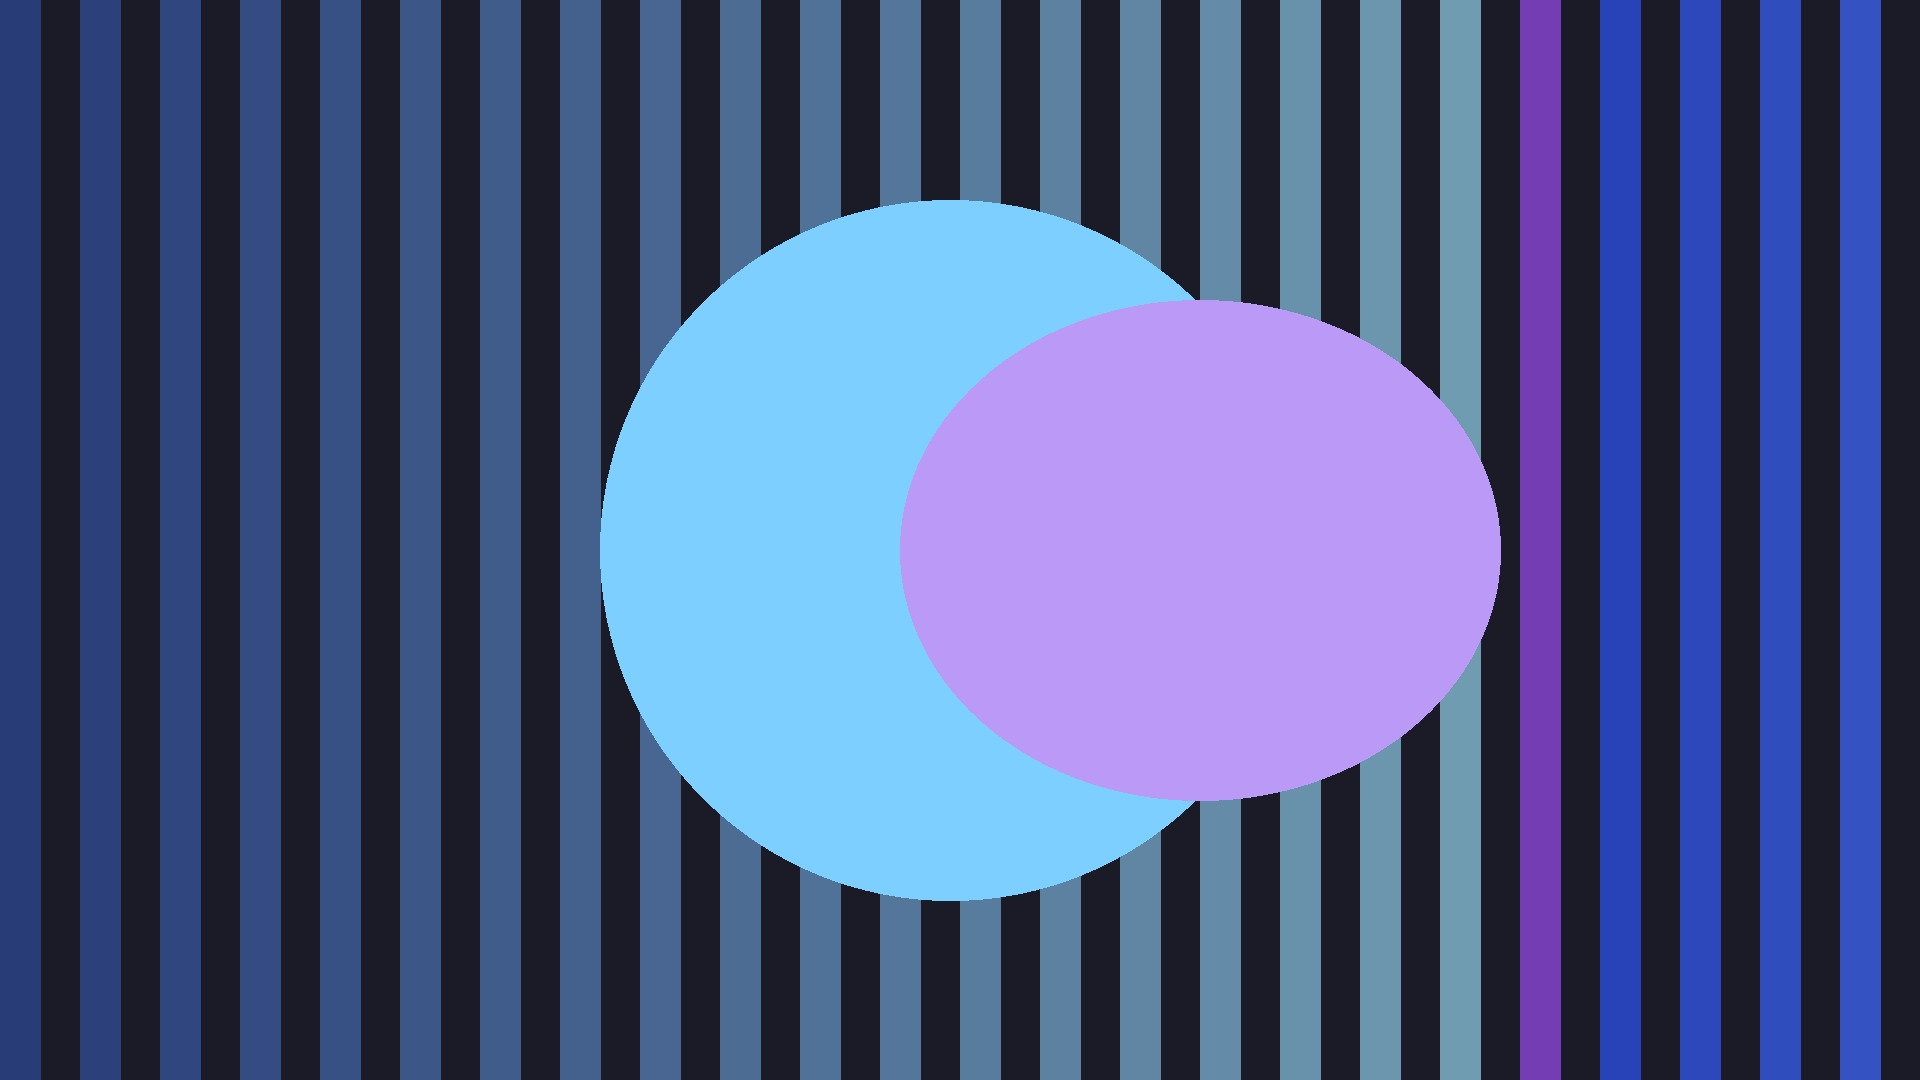
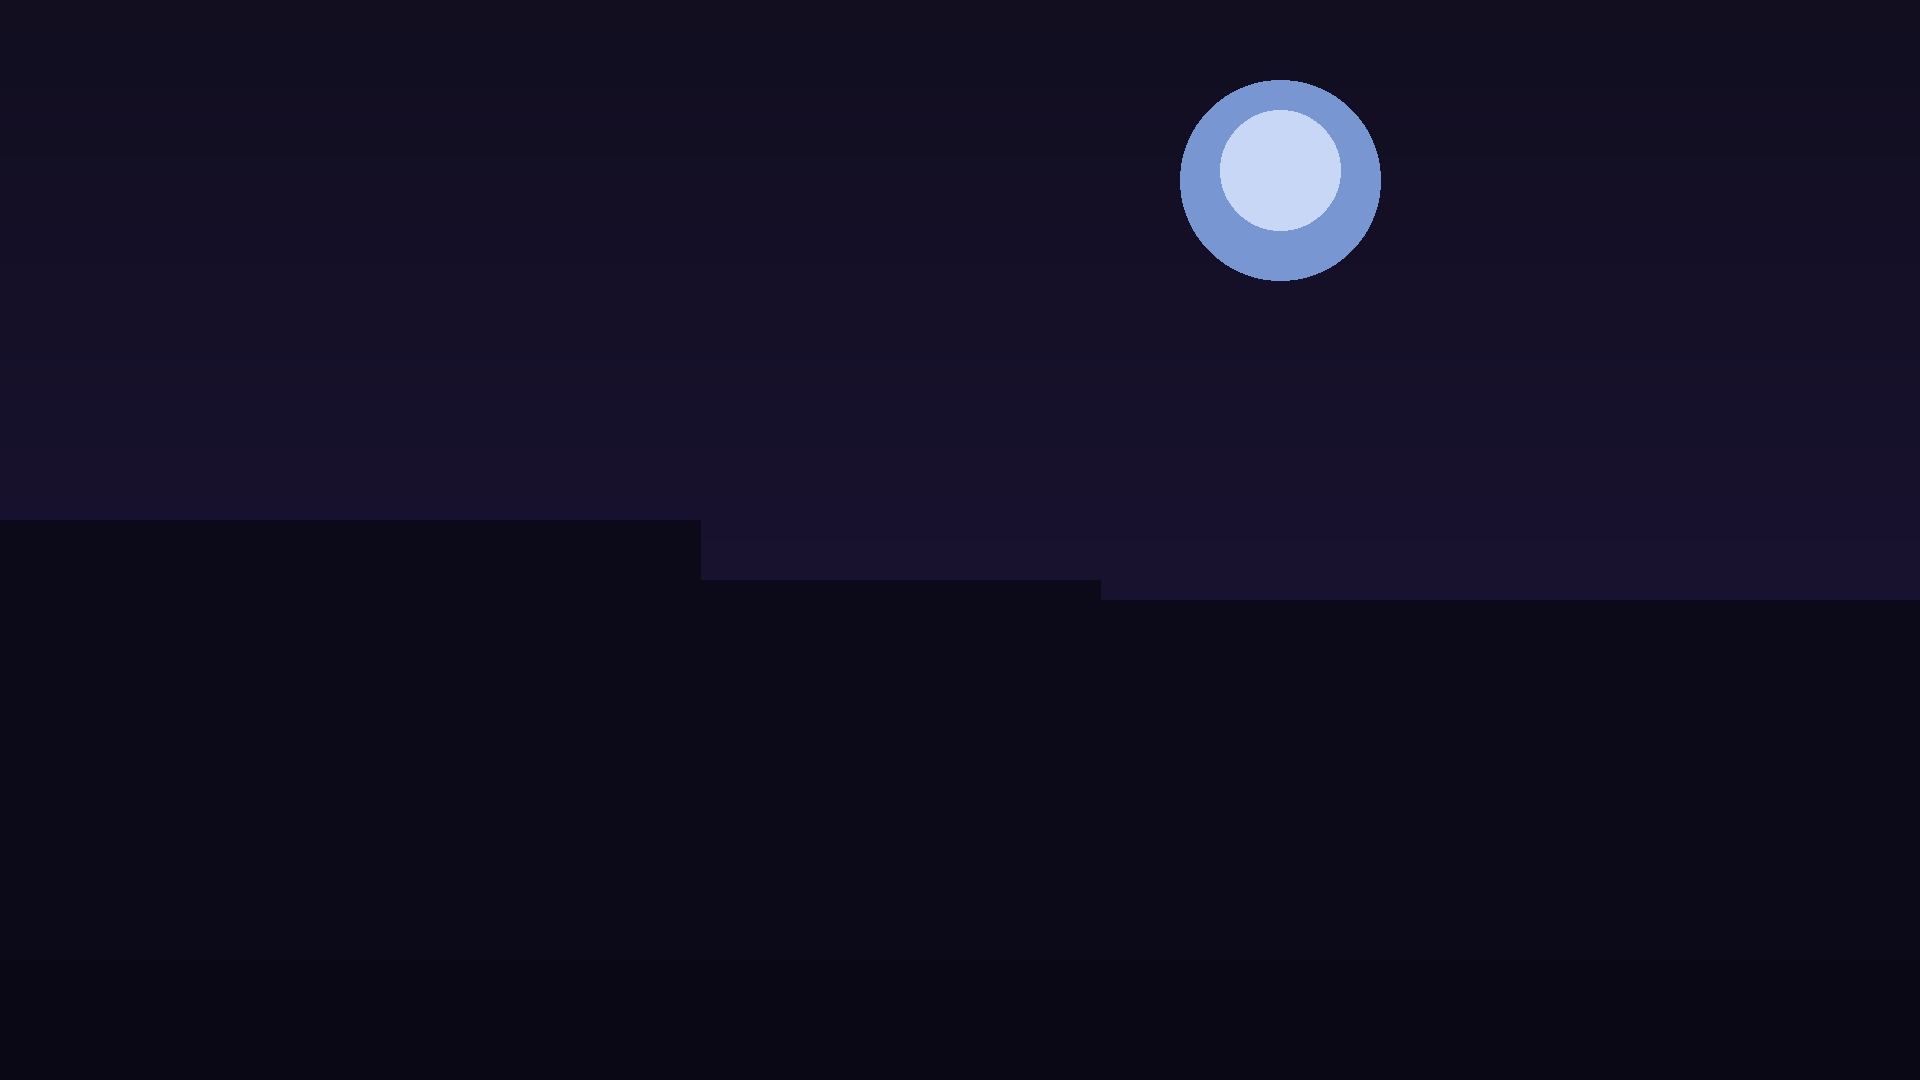
fix: improve theme readability, wallpaper, and boot animations

diff --git a/static/style.css b/static/style.css
@@ -12,12 +12,12 @@
   --font-display: "Press Start 2P", monospace;
   --font-body: "JetBrains Mono", monospace;
   --scanline-opacity: 0.03;
-  --module-bg: color-mix(in srgb, var(--color-base) 8%, transparent);
+  --module-bg: color-mix(in srgb, var(--color-base) 12%, transparent);
   --module-bg-max: color-mix(in srgb, var(--color-base) 12%, transparent);
   --vignette: radial-gradient(
     ellipse at center,
-    transparent 50%,
-    color-mix(in srgb, var(--color-base) 35%, transparent) 100%
+    color-mix(in srgb, var(--color-base) 20%, transparent) 0%,
+    color-mix(in srgb, var(--color-base) 55%, transparent) 100%
   );
 }
 
@@ -49,10 +49,10 @@ body {
   inset: 0;
   pointer-events: none;
   background-image:
-    linear-gradient(color-mix(in srgb, var(--color-accent) 5%, transparent) 1px, transparent 1px),
-    linear-gradient(90deg, color-mix(in srgb, var(--color-accent) 5%, transparent) 1px, transparent 1px);
-  background-size: 40px 40px;
-  opacity: 0.35;
+    linear-gradient(color-mix(in srgb, var(--color-accent) 4%, transparent) 1px, transparent 1px),
+    linear-gradient(90deg, color-mix(in srgb, var(--color-accent) 4%, transparent) 1px, transparent 1px);
+  background-size: 48px 48px;
+  opacity: 0.12;
 }
 
 #wallpaper::after {
@@ -91,15 +91,17 @@ body {
   display: flex;
   align-items: center;
   gap: 10px;
-  padding: 6px 12px;
-  background: color-mix(in srgb, var(--color-base) 10%, transparent);
-  border: 1px solid color-mix(in srgb, var(--color-accent) 40%, transparent);
+  padding: 7px 14px;
+  background: color-mix(in srgb, var(--color-base) 12%, transparent);
+  border: 1px solid color-mix(in srgb, var(--color-accent) 50%, transparent);
   font-family: var(--font-body);
   font-size: 11px;
-  color: var(--color-text-dim);
+  color: var(--color-text);
   letter-spacing: 0.02em;
   flex-wrap: wrap;
   row-gap: 4px;
+  backdrop-filter: blur(6px);
+  text-shadow: 0 1px 6px color-mix(in srgb, var(--color-base) 85%, transparent);
 }
 
 .status-bar__dot {
@@ -119,7 +121,7 @@ body {
 }
 
 .status-bar__meta {
-  color: var(--color-text-dim);
+  color: var(--color-text);
 }
 
 .status-bar__link {
@@ -179,11 +181,13 @@ body {
 
 .module {
   pointer-events: auto;
-  background: var(--module-bg);
+  background: var(--module-bg-max);
   border: 1px solid var(--color-accent);
   border-radius: 0;
   padding: 14px 16px;
   position: relative;
+  text-shadow: 0 1px 6px color-mix(in srgb, var(--color-base) 85%, transparent);
+  backdrop-filter: blur(6px);
 }
 
 body.pixel-borders .module {
@@ -218,6 +222,13 @@ body.pixel-borders .module {
   align-self: end;
   justify-self: center;
   min-width: 320px;
+  max-width: 360px;
+}
+
+.weather {
+  display: flex;
+  flex-direction: column;
+  gap: 4px;
 }
 
 #calendar-module {
@@ -325,7 +336,7 @@ body.scanlines::after {
   margin-top: 10px;
   font-family: var(--font-body);
   font-size: 12px;
-  color: var(--color-text-dim);
+  color: var(--color-text);
   letter-spacing: 0.04em;
 }
 
@@ -346,6 +357,10 @@ body.scanlines::after {
   margin-bottom: 5px;
   white-space: nowrap;
   font-size: 11px;
+  display: grid;
+  grid-template-columns: 58px 1fr;
+  gap: 8px;
+  align-items: center;
 }
 
 .sysinfo__line.visible {
@@ -428,7 +443,7 @@ body.scanlines::after {
 
 .weather__city {
   font-size: 12px;
-  color: var(--color-text-dim);
+  color: var(--color-text);
 }
 
 .weather__wind {
@@ -439,7 +454,7 @@ body.scanlines::after {
 
 .weather__sun {
   font-size: 11px;
-  color: var(--color-text-dim);
+  color: var(--color-text);
   margin-top: 4px;
   letter-spacing: 0.04em;
 }
@@ -557,9 +572,14 @@ body.scanlines::after {
   display: flex;
   align-items: center;
   justify-content: center;
-  color: var(--color-text-dim);
+  color: var(--color-text);
   border: 1px solid transparent;
   border-radius: 0;
+}
+
+.calendar-grid__cell--other-month {
+  opacity: 0.5;
+  color: var(--color-text-dim);
 }
 
 .calendar-grid__cell--today {
@@ -576,10 +596,6 @@ body.scanlines::after {
   animation: calendar-today-fade-in 500ms ease forwards;
 }
 
-.calendar-grid__cell--other-month {
-  opacity: 0.35;
-}
-
 .calendar-events {
   list-style: none;
   margin-top: 14px;
@@ -592,13 +608,16 @@ body.scanlines::after {
   opacity: 0;
   transform: translateX(-20px);
   margin-bottom: 8px;
-  color: var(--color-text-dim);
+  color: var(--color-text);
+  display: flex;
+  align-items: baseline;
+  gap: 8px;
 }
 
 .calendar-events__item::before {
   content: ">";
-  margin-right: 8px;
   color: var(--color-secondary);
+  flex-shrink: 0;
 }
 
 .calendar-events__item.visible {
@@ -615,6 +634,9 @@ body.scanlines::after {
 .quote {
   border: none;
   padding: 0;
+  display: flex;
+  flex-direction: column;
+  gap: 6px;
 }
 
 .quote__text {
@@ -635,7 +657,8 @@ body.scanlines::after {
 }
 
 .quote__author {
-  margin-top: 8px;
+  margin-top: 0;
+  margin-left: 1.4em;
   font-size: 11px;
   color: var(--color-text-dim);
   opacity: 0;

diff --git a/static/boot_sequence.js b/static/boot_sequence.js
@@ -4,6 +4,7 @@
 
 const BootSequence = (() => {
   const DELAYS = {
+    'status-bar': 0,
     'clock-module': 0,
     'sysinfo-module': 200,
     'weather-module': 400,
@@ -12,17 +13,13 @@ const BootSequence = (() => {
     'quote-module': 1000,
   };
 
-  function init(config) {
+  function init() {
     Object.entries(DELAYS).forEach(([id, delay]) => {
       const el = document.getElementById(id);
       if (!el) return;
 
       setTimeout(() => {
-        if (id === 'animation-module') {
-          el.classList.add('module--boot-visible');
-        } else {
-          el.classList.add('module--boot-visible');
-        }
+        el.classList.add('module--boot-visible');
         el.dataset.bootComplete = 'true';
         el.dispatchEvent(new CustomEvent('ricepi:boot-visible'));
       }, delay);

diff --git a/static/index.html b/static/index.html
@@ -118,7 +118,7 @@
         document.getElementById('wallpaper').style.backgroundImage = `url('/${config.wallpaper.replace(/^\//, '')}')`;
       }
 
-      BootSequence.init(config);
+      BootSequence.init();
       Clock.init(config);
       Weather.init(config);
       Calendar.init(config);
@@ -126,10 +126,6 @@
       StatusBar.init(config);
       Quotes.init(config);
       AnimationPlayer.init(config);
-
-      setTimeout(() => {
-        document.getElementById('status-bar')?.classList.add('module--boot-visible');
-      }, 100);
     });
   </script>
 </body>

diff --git a/static/animations.css b/static/animations.css
@@ -2,7 +2,7 @@
 @keyframes boot-in {
   from {
     opacity: 0;
-    transform: translateY(10px);
+    transform: translateY(12px);
   }
   to {
     opacity: 1;
@@ -12,10 +12,15 @@
 
 .module--boot {
   opacity: 0;
+  will-change: opacity, transform;
 }
 
 .module--boot-visible {
   animation: boot-in 600ms ease-out forwards;
+}
+
+.status-bar.module--boot-visible {
+  animation: boot-in 500ms ease-out forwards;
 }
 
 @keyframes status-pulse {

diff --git a/theme.css b/theme.css
@@ -1,7 +1,7 @@
 :root {
-  --color-base: #1c1e2a;
-  --color-accent: #743cb3;
-  --color-secondary: #3a5595;
-  --color-text: #93acf3;
-  --color-text-dim: color-mix(in srgb, #743cb3 50%, transparent);
+  --color-base: #100e20;
+  --color-accent: #7dcfff;
+  --color-secondary: #bb9af7;
+  --color-text: #e8ecf4;
+  --color-text-dim: color-mix(in srgb, #e8ecf4 72%, transparent);
 }

diff --git a/init_theme.py b/init_theme.py
@@ -21,6 +21,33 @@ def rgb_to_hex(r: int, g: int, b: int) -> str:
     return f"#{r:02x}{g:02x}{b:02x}"
 
 
+def hex_to_rgb(hex_color: str) -> tuple[int, int, int]:
+    value = hex_color.lstrip("#")
+    return int(value[0:2], 16), int(value[2:4], 16), int(value[4:6], 16)
+
+
+def ensure_readability(colors: dict[str, str], theme_cfg: dict) -> dict[str, str]:
+    base_lum = luminance(*hex_to_rgb(colors["base"]))
+    text_lum = luminance(*hex_to_rgb(colors["text"]))
+
+    if base_lum > 120:
+        colors["base"] = theme_cfg.get("fallback_base", "#1a1b26")
+
+    if text_lum < 175:
+        colors["text"] = theme_cfg.get("fallback_text", "#e8ecf4")
+
+    accent_lum = luminance(*hex_to_rgb(colors["accent"]))
+    if accent_lum < 120:
+        colors["accent"] = theme_cfg.get("fallback_accent", "#7dcfff")
+
+    sec_lum = luminance(*hex_to_rgb(colors["secondary"]))
+    if sec_lum < 90:
+        colors["secondary"] = theme_cfg.get("fallback_secondary", "#bb9af7")
+
+    colors["text_dim"] = f"color-mix(in srgb, {colors['text']} 72%, transparent)"
+    return colors
+
+
 def saturation(r: int, g: int, b: int) -> float:
     r_f, g_f, b_f = r / 255.0, g / 255.0, b / 255.0
     mx = max(r_f, g_f, b_f)
@@ -60,7 +87,7 @@ def assign_colors(palette: list[tuple[int, int, int]]) -> dict[str, str]:
         "accent": accent_hex,
         "secondary": rgb_to_hex(*secondary),
         "text": rgb_to_hex(*text),
-        "text_dim": f"color-mix(in srgb, {accent_hex} 50%, transparent)",
+        "text_dim": f"color-mix(in srgb, {rgb_to_hex(*text)} 72%, transparent)",
     }
 
 
@@ -73,12 +100,13 @@ def extract_palette(wallpaper_path: Path) -> list[tuple[int, int, int]]:
 
 def fallback_colors(theme_cfg: dict) -> dict[str, str]:
     accent = theme_cfg.get("fallback_accent", "#7dcfff")
+    text = theme_cfg.get("fallback_text", "#e8ecf4")
     return {
         "base": theme_cfg.get("fallback_base", "#1a1b26"),
         "accent": accent,
         "secondary": theme_cfg.get("fallback_secondary", "#bb9af7"),
-        "text": "#c0caf5",
-        "text_dim": f"color-mix(in srgb, {accent} 50%, transparent)",
+        "text": text,
+        "text_dim": f"color-mix(in srgb, {text} 72%, transparent)",
     }
 
 
@@ -109,6 +137,7 @@ def generate_theme() -> dict[str, str]:
         print(f"[init_theme] Using fallback colors: {exc}", file=sys.stderr)
         colors = fallback_colors(theme_cfg)
 
+    colors = ensure_readability(colors, theme_cfg)
     write_theme_css(colors)
     print(f"[init_theme] Wrote {THEME_PATH}")
     return colors
